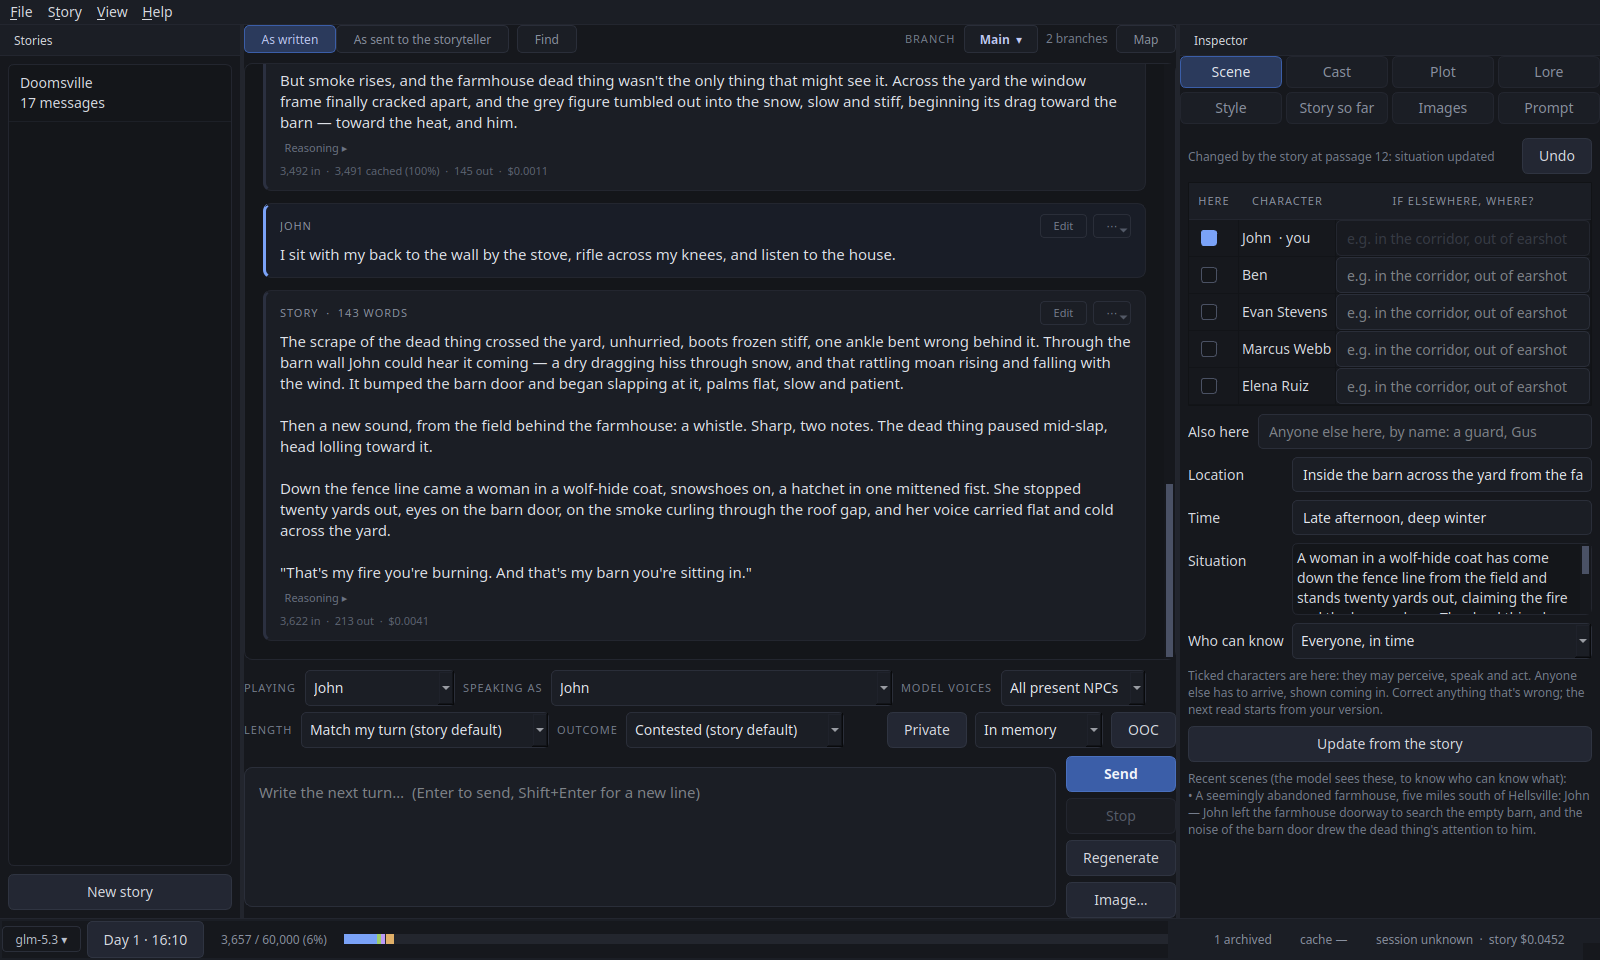
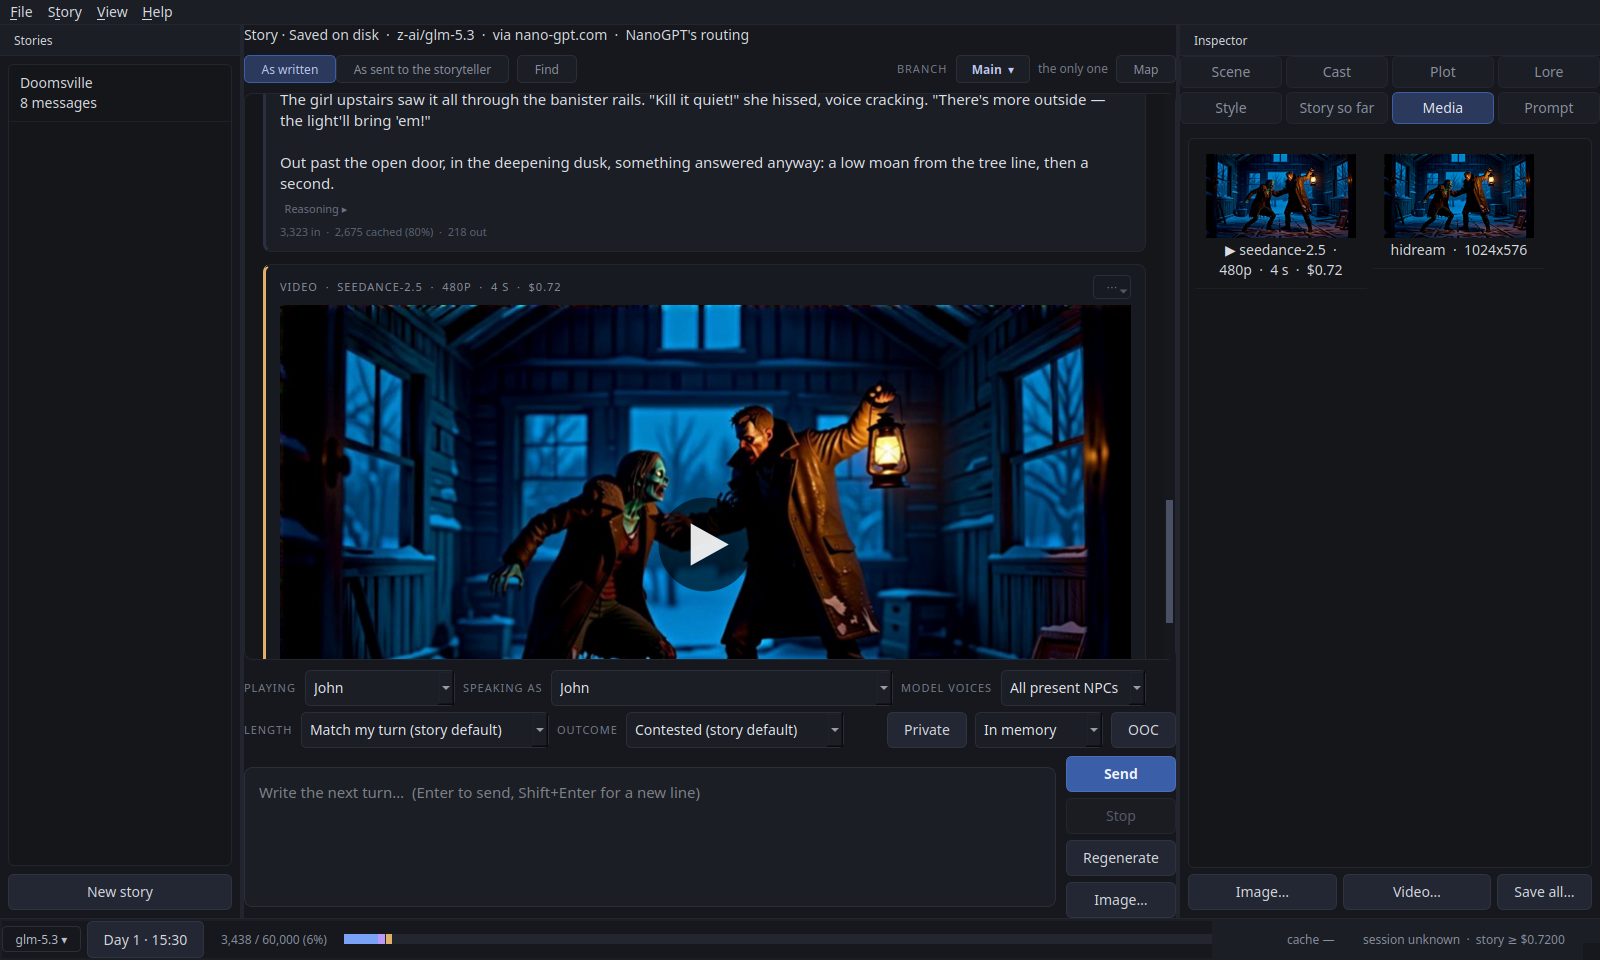
The Images tab is Media; the README shows a video, and lists what's new
The inspector's Images page holds videos as well as pictures now, so it is
called Media, as are the messages and the manual's mentions of it. Settings
→ Images (where pictures are made) keeps its name.

The README's screenshot is a demo Doomsville story with a video in place
after its passage and the Media page listing it beside a picture. Its list
of features gains routes, lore that waits to be mentioned, pictures and
videos, the line that says how a story is set up, and memory-only chats;
the AppImage's requirements mention the PulseAudio library video playback
uses.

diff --git a/src/sealedlore/gui/window_images.py b/src/sealedlore/gui/window_images.py
@@ -33,7 +33,7 @@ from sealedlore.storage.repository import save_config
 
 class ImagesWindow:
     def _init_images(self) -> None:
-        """Called from `_build_ui`: the jobs, the Images tab and the transcript's signals."""
+        """Called from `_build_ui`: the jobs, the Media tab and the transcript's signals."""
         self.image_jobs = ImageJobs(self.root, self)
         self.image_catalog = ImageCatalog(
             self.config, self.root, self, in_memory=lambda: self.memory_chat
@@ -129,7 +129,7 @@ class ImagesWindow:
         )
 
     def _refresh_image_views(self) -> None:
-        """The Images tab now; the transcript once no passage is streaming into it."""
+        """The Media tab now; the transcript once no passage is streaming into it."""
         self.refresh_images()
         if not self._busy:
             self.reload_transcript()
@@ -217,7 +217,7 @@ class ImagesWindow:
             self.statusBar().showMessage("Picture ready.", 8000)
         else:
             self.statusBar().showMessage(
-                "A picture for another story is ready; it's in that story's Images tab.", 8000
+                "A picture for another story is ready; it's in that story's Media tab.", 8000
             )
 
     def _on_image_failed(self, _job_id: str, story_id: str, message: str) -> None:
@@ -274,7 +274,7 @@ class ImagesWindow:
                 self._refresh_image_views()
 
     def save_all_pictures(self) -> None:
-        """Images → Save all…: every picture and video of the story into a folder the
+        """Media → Save all…: every picture and video of the story into a folder the
         author picks, named in the order they were made. Nothing there is
         overwritten. The way out for a memory-only chat's pictures, and a
         convenience for any story."""

diff --git a/src/sealedlore/gui/window_chat.py b/src/sealedlore/gui/window_chat.py
@@ -163,7 +163,7 @@ class ChatWindow:
             "Chat kept in memory only",
             "This chat is kept in memory only: closing it loses it, and nothing of it was "
             f"ever written to disk.{lost}\n\nTo keep it, export a backup first (Story → "
-            "Export → Story backup…); to keep only its pictures, Images → Save all….\n\n"
+            "Export → Story backup…); to keep only its pictures and videos, Media → Save all….\n\n"
             "Close it anyway?",
             QMessageBox.Yes | QMessageBox.Cancel,
         )

diff --git a/src/sealedlore/gui/main_window.py b/src/sealedlore/gui/main_window.py
@@ -358,7 +358,7 @@ class MainWindow(
         self.right_tabs.addTab(self.lore_panel, "Lore")
         self.right_tabs.addTab(self.style_panel, "Style")
         self.right_tabs.addTab(self.summaries_panel, "Story so far")
-        self.right_tabs.addTab(self.images_panel, "Images")
+        self.right_tabs.addTab(self.images_panel, "Media")
         self.right_tabs.addTab(self.inspector, "Prompt")
         self.right_tabs.set_empty(self._no_story_page())
         right = QDockWidget("Inspector", self)

diff --git a/tests/test_images_gui.py b/tests/test_images_gui.py
@@ -345,7 +345,7 @@ def test_a_memory_chat_keeps_its_pictures_in_memory_and_can_save_them(
     assert session.pictures.read(ref.file) is not None
     dialog.deleteLater()
 
-    # A picture drawn with it lands in the transcript and the Images tab.
+    # A picture drawn with it lands in the transcript and the Media tab.
     use = next(c.use for c in session.image_ref_choices() if c.use.ref_id == ref.id)
     request = ImageRequest(
         story_id=session.story.id,

diff --git a/src/sealedlore/gui/window_videos.py b/src/sealedlore/gui/window_videos.py
@@ -258,7 +258,7 @@ class VideosWindow:
                 )
         else:
             self.statusBar().showMessage(
-                "A video for another story is ready; it's in that story's Images tab.", 8000
+                "A video for another story is ready; it's in that story's Media tab.", 8000
             )
 
     def _on_video_failed(self, story_id: str, message: str) -> None:

diff --git a/docs/manual.md b/docs/manual.md
@@ -374,7 +374,8 @@ archiving, rebuilding summaries.
   it at a glance), **Cast** (sheets, skills, supporting characters), **Plot** (the clock, facts and events; shown only for a
   story with a plot), **Lore**, **Style**, **Story so far** (the chapter
   summaries: edit, rebuild, archive now; double-click one to go to it in the
-  story), **Images**, and **Prompt** (exactly what the storyteller was sent
+  story), **Media** (every picture and video the story has made), and
+  **Prompt** (exactly what the storyteller was sent
   last turn; **Copy prompt** copies it as readable text, **Copy request
   JSON** as the exact request body).
 
@@ -953,10 +954,10 @@ reads it at full price. The dialog shows the
 whole request — model, size, count, listed price, the pictures in order, and
 the prompt, which you can edit — and nothing is sent until you press
 Generate. The picture is drawn in the background while you play on and lands
-in the **Images** tab, and can be set as the transcript's background (from
+in the **Media** tab, and can be set as the transcript's background (from
 its ⋯ menu, or any picture file with View → Background picture…). Pictures
 are kept even when their passage is deleted; only their own Delete removes
-them, since they cost money. **Save all…** in the Images tab copies every
+them, since they cost money. **Save all…** in the Media tab copies every
 picture into a folder you choose; each picture's ⋯ menu saves one.
 
 Pictures go to the chat endpoint unless **Settings → Images** names another:
@@ -967,7 +968,7 @@ key is used only when the address is the chat endpoint's own host.
 
 ## Videos
 
-**Story → Generate video…**, **Video…** in the Images tab, or **Video of this
+**Story → Generate video…**, **Video…** in the Media tab, or **Video of this
 passage…** in a passage's ⋯ menu makes a few seconds of video of the story.
 
 **Video costs far more than pictures**: a picture is a few cents, a video tens
@@ -1011,7 +1012,7 @@ its hidden data (the encoder's name and settings, creation times) is blanked
 without re-encoding, and it shows as its first frame: click to play it in
 place, with sound and a position bar. Its ⋯ menu opens it in your default
 player, saves it, shows its prompt, makes the next video from its last frame,
-or uses that frame as a reference picture. Videos are listed in the Images
+or uses that frame as a reference picture. Videos are listed in the Media
 tab and saved by **Save all…**. A story backup of a story with videos asks
 whether to put them in (they are megabytes each) or leave them out.
 
@@ -1157,7 +1158,7 @@ story is (Settings → Context), with a plain summariser.
   gone. Its pictures are kept in memory with it (reference pictures and the
   background too). To keep anything, write it out first: **Story → Export →
   Story backup…** (the whole chat, its pictures and costs), Markdown, or
-  **Images → Save all…** for the pictures. File → Import… of such a backup
+  **Media → Save all…** for the pictures and videos. File → Import… of such a backup
   asks whether to open it in memory again, writing nothing, or save it as an
   ordinary chat. In memory only is about your computer, not the model: on an
   ordinary model the provider still receives every message (on NanoGPT, your

diff --git a/README.md b/README.md
@@ -3,7 +3,7 @@
 A Linux and Windows application for AI-driven roleplay with many characters
 in an open world, with a number of particularly useful features.
 
-![The main window: the story, the composer, and the Scene page following who is where](docs/screenshots/main-window.png)
+![The main window: a video of the story in place after its passage, ready to play, and the Media page listing the story's videos and pictures](docs/screenshots/main-window.png)
 
 *Beta.* This application has been tested extensively both through
 automation and manually by the developer. It is however still in early
@@ -111,7 +111,9 @@ Have fun!
   narration, or as direction to the model; you can also ask it questions out
   of character.
 - **The world and the cast**: a world bible, cast sheets with skills,
-  supporting characters the story introduces, and a lorebook.
+  supporting characters the story introduces, and a lorebook whose entries
+  can wait, unseen by any model, until you mention them, so what hasn't
+  happened yet doesn't happen early.
 - **Outcomes and dice**: fiat, plausible, contested, or d100 rolls against
   the character's skills.
 - **Length and style**: length presets with measured word counts, a per-turn
@@ -122,6 +124,13 @@ Have fun!
   earlier message as a named branch; a map shows them all.
 - **Drafting**: a whole story drafted from a premise.
 - **Costs**: per passage, per session and per story.
+- **Routes**: on NanoGPT, choose which host serves each model (the fastest,
+  the cheapest, or one you pick), and see whether the choice was followed.
+- **Pictures and videos** of the story in its Media tab, the videos played in
+  place, and a line above the story that always says where it is kept and
+  which model and route it is on.
+- **Chats kept in memory only**, pictures and all, that leave nothing on
+  disk unless you export them.
 
 ## Installing
 
@@ -136,7 +145,9 @@ chmod +x SealedLore-*-x86_64.AppImage
 ```
 
 It needs x86_64 and glibc 2.34 or newer (Ubuntu 22.04, Mint 21, Debian 12,
-Fedora 35 and later), with nothing else to install. To check the download:
+Fedora 35 and later), with nothing else to install. (Playing videos in the
+app uses the PulseAudio client library, which nearly every desktop has.) To
+check the download:
 
 ```bash
 gh attestation verify SealedLore-<version>-x86_64.AppImage --repo DigitalArchon/SealedLore
